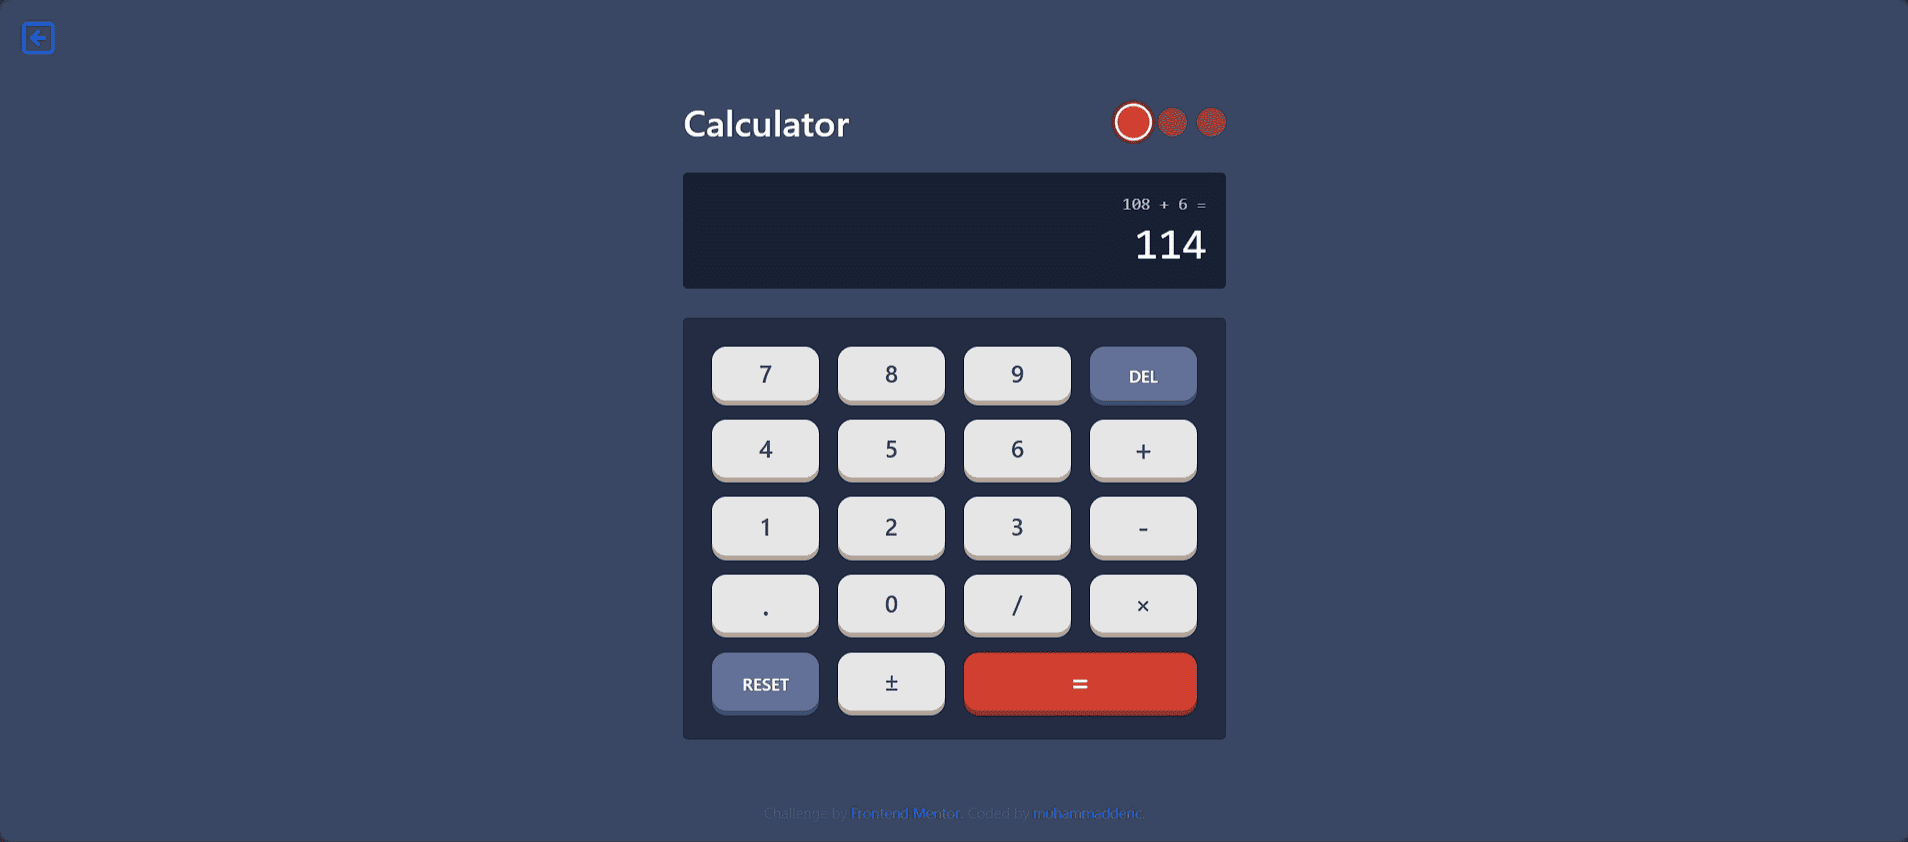
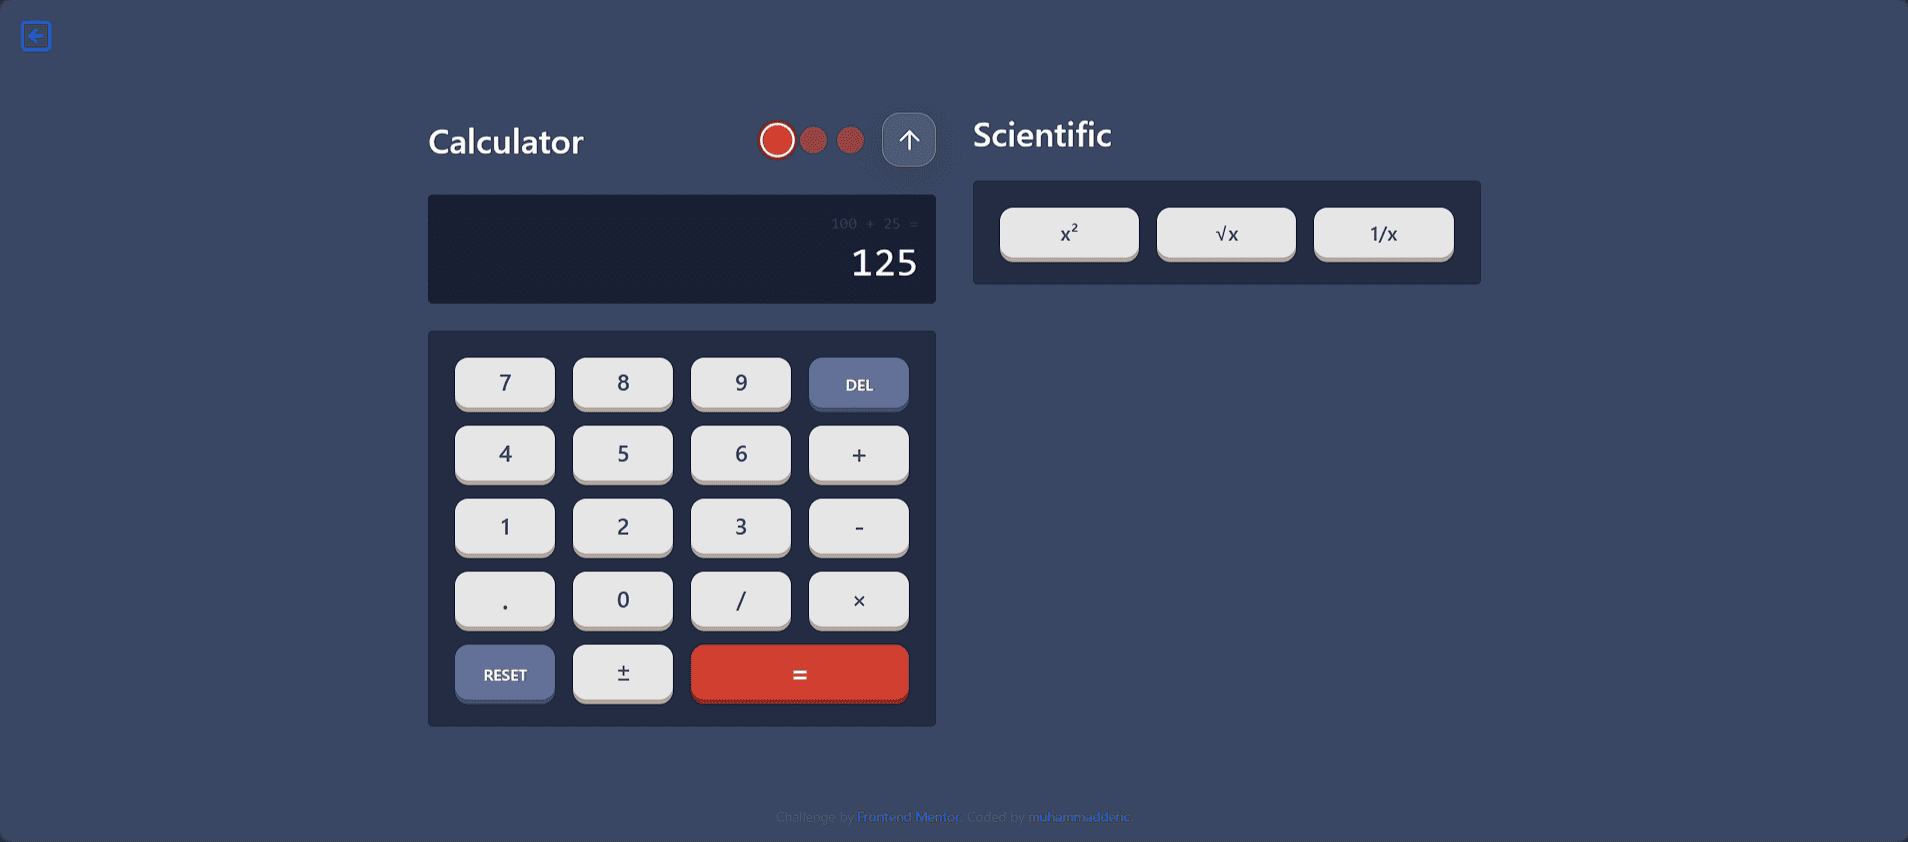
doc: update calculator readme file

diff --git a/src/challenges/intermediate/calculator/pages/Calculator.tsx b/src/challenges/intermediate/calculator/pages/Calculator.tsx
@@ -8,6 +8,8 @@ import { setTheme } from '../store/calcThemeSlice';
 type CalcTheme = 'calc-theme-1' | 'calc-theme-2' | 'calc-theme-3';
 
 import '../styles/calculator-theme.css';
+import { useState } from 'react';
+import { ArrowDown } from 'lucide-react';
 
 export function Calculator() {
   const {
@@ -22,6 +24,12 @@ export function Calculator() {
     handleDecimal,
     handleNegate,
   } = useCalculator();
+
+  const [showSecondCalculator, setShowSecondCalculator] = useState(false);
+
+  const handleToggleCalculator = () => {
+    setShowSecondCalculator(!showSecondCalculator);
+  };
 
   const theme = useSelector((state: RootState) => state.calculatorTheme.theme);
   const dispatch = useDispatch<AppDispatch>();
@@ -43,7 +51,7 @@ export function Calculator() {
       <div className="w-full max-w-6xl mx-auto flex flex-col lg:flex-row gap-8 justify-center items-start">
 
         {/* First Calculator - Basic Calculator */}
-        <div className="flex-1 max-w-md mx-auto lg:mx-0">
+        <div className="flex-1 w-full max-w-md mx-auto lg:mx-0">
           {/* Header */}
           <div className="w-full flex items-center justify-between mb-6">
             <p className="text-3xl font-medium" style={{ color: 'var(--text-color)' }}>
@@ -51,7 +59,7 @@ export function Calculator() {
             </p>
 
             {/* Theme selector */}
-            <div className="flex items-center justify-between">
+            <div className="flex items-center justify-between gap-4">
               <div className="flex gap-2">
                 <button
                   className={`w-6 h-6 rounded-full transition-all duration-200 ${theme === 'calc-theme-1'
@@ -90,6 +98,37 @@ export function Calculator() {
                   aria-label="Theme 3 - Purple"
                 />
               </div>
+
+              <button
+                onClick={handleToggleCalculator}
+                className="relative w-12 h-12 rounded-2xl
+                backdrop-blur-sm bg-white/10 
+                hover:bg-white/20 dark:bg-black/10 dark:hover:bg-black/20
+                border border-white/20 dark:border-white/10
+                shadow-[0_8px_32px_rgba(0,0,0,0.1)] 
+                hover:shadow-[0_12px_40px_rgba(0,0,0,0.15)]
+                transition-all duration-500 ease-[cubic-bezier(0.68,-0.55,0.265,1.55)]
+                hover:scale-110 active:scale-95
+                focus:outline-none focus:ring-2 focus:ring-purple-500 focus:ring-offset-2"
+                aria-label="Toggle calculator view"
+              >
+                {/* Animated background gradient */}
+                <div className="absolute inset-0 rounded-2xl bg-gradient-to-br from-blue-500/20 to-purple-500/20 opacity-0 hover:opacity-100 transition-opacity duration-300" />
+
+                <ArrowDown
+                  className={`relative w-6 h-6 mx-auto transition-all duration-500 
+                    ${showSecondCalculator ? 'rotate-180 scale-110' : 'rotate-0 scale-100'}
+                    hover:scale-125
+                  `}
+                  style={{ color: 'var(--text-white)' }}
+                />
+
+                {/* Pulse animation ring */}
+                <span className={`absolute inset-0 rounded-2xl border-2 border-blue-400/50
+                  ${showSecondCalculator ? 'animate-ping' : 'opacity-0'}
+                  transition-opacity duration-300
+                `} />
+              </button>
             </div>
           </div>
 
@@ -191,33 +230,35 @@ export function Calculator() {
         </div>
 
         {/* Second Calculator - Scientific Functions */}
-        <div className="flex-1 max-w-md mx-auto lg:mx-0">
-          {/* Header */}
-          <div className="w-full mb-6">
-            <p className="text-3xl font-medium" style={{ color: 'var(--text-color)' }}>
-              Scientific
-            </p>
-          </div>
+        {showSecondCalculator && (
+          <div className="w-full flex-1 max-w-md mx-auto lg:mx-0">
+            {/* Header */}
+            <div className="w-full mb-6">
+              <p className="text-3xl font-medium" style={{ color: 'var(--text-color)' }}>
+                Scientific
+              </p>
+            </div>
 
-          {/* Scientific Calculator Container */}
-          <div className="w-full transition-all duration-300">
-            {/* Scientific Functions Grid */}
-            <div className="p-6 rounded" style={{ backgroundColor: 'var(--bg-toggle-keypad)' }}>
-              <div className="grid grid-cols-3 gap-4">
-                {/* Row 1 - Basic Scientific Functions */}
-                <CalculatorBtn variant="secondary" onClick={() => handleNumber("²")}>
-                  <span className="text-lg">x²</span>
-                </CalculatorBtn>
-                <CalculatorBtn variant="secondary" onClick={() => handleNumber("√")}>
-                  <span className="text-lg">√x</span>
-                </CalculatorBtn>
-                <CalculatorBtn variant="secondary" onClick={handle1OverX}>
-                  <span className="text-lg">1/x</span>
-                </CalculatorBtn>
+            {/* Scientific Calculator Container */}
+            <div className="w-full transition-all duration-300">
+              {/* Scientific Functions Grid */}
+              <div className="p-6 rounded" style={{ backgroundColor: 'var(--bg-toggle-keypad)' }}>
+                <div className="grid grid-cols-3 gap-4">
+                  {/* Row 1 - Basic Scientific Functions */}
+                  <CalculatorBtn variant="secondary" onClick={() => handleNumber("²")}>
+                    <span className="text-lg">x²</span>
+                  </CalculatorBtn>
+                  <CalculatorBtn variant="secondary" onClick={() => handleNumber("√")}>
+                    <span className="text-lg">√x</span>
+                  </CalculatorBtn>
+                  <CalculatorBtn variant="secondary" onClick={handle1OverX}>
+                    <span className="text-lg">1/x</span>
+                  </CalculatorBtn>
+                </div>
               </div>
             </div>
           </div>
-        </div>
+        )}
       </div>
 
       {/* Attribution */}

diff --git a/src/challenges/intermediate/calculator/README.md b/src/challenges/intermediate/calculator/README.md
@@ -24,13 +24,14 @@ Users should be able to:
 - See the size of the elements adjust based on their device's screen size
 - Perform mathmatical operations like addition, subtraction, multiplication, and division
 - Adjust the color theme based on their preference
+- This calculator also supports scientific calculations such as square, root, and 1/x.
 
 ### Screenshot
 
 <p align="center">
   <img src="./calculator-desktop.png" width="75%" alt="Desktop Version" />
   <br /><br />
-  <img src="./calculator-mobile.png" width="35%" alt="Mobile Version" />
+  <img src="./calculator-mobile.jpeg" width="35%" alt="Mobile Version" />
 </p>
 
 ### Links
